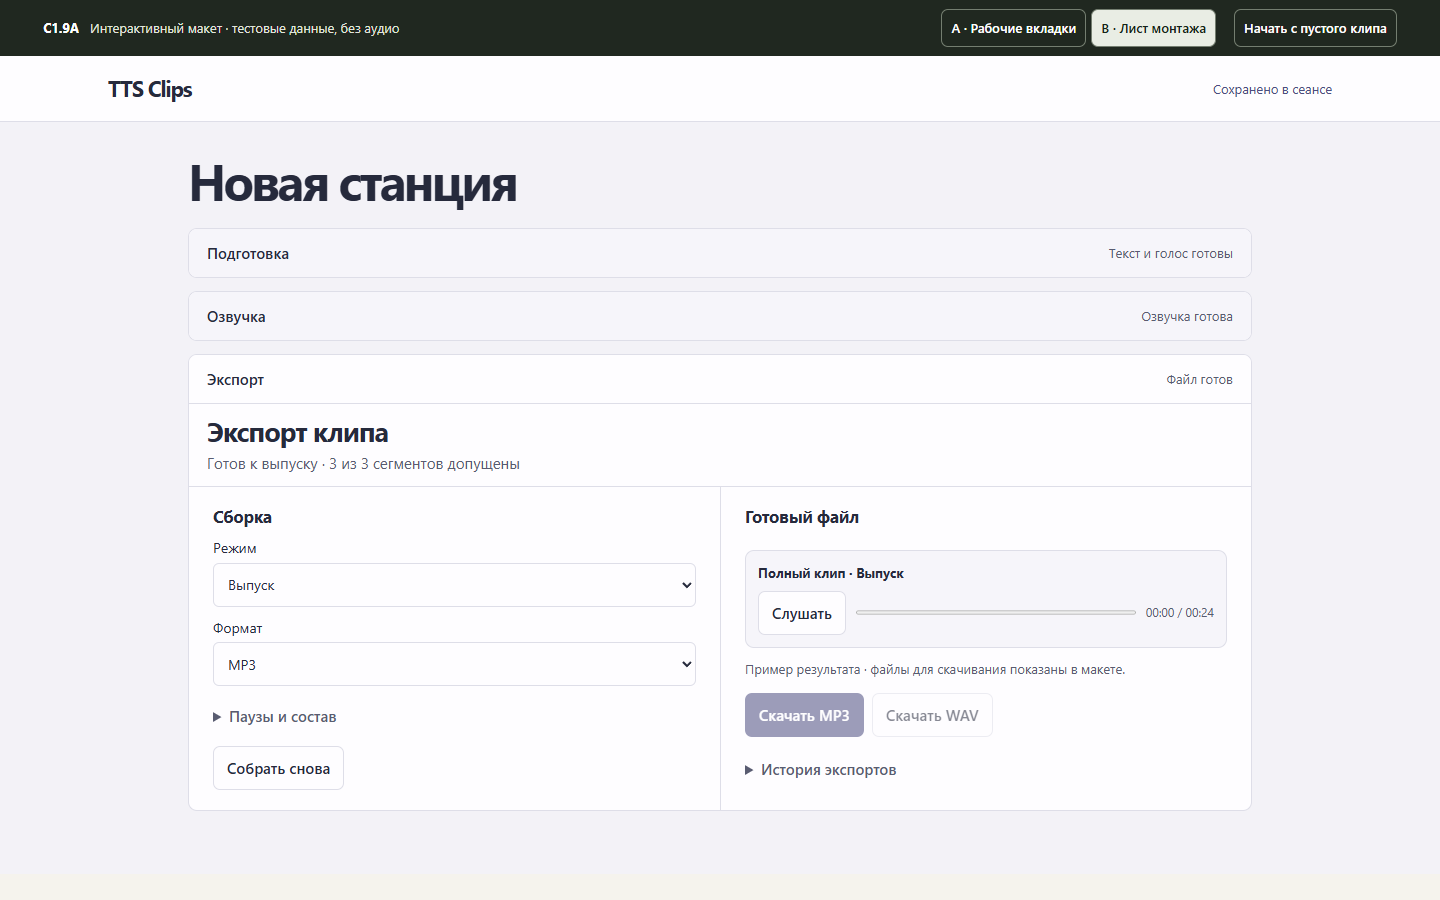
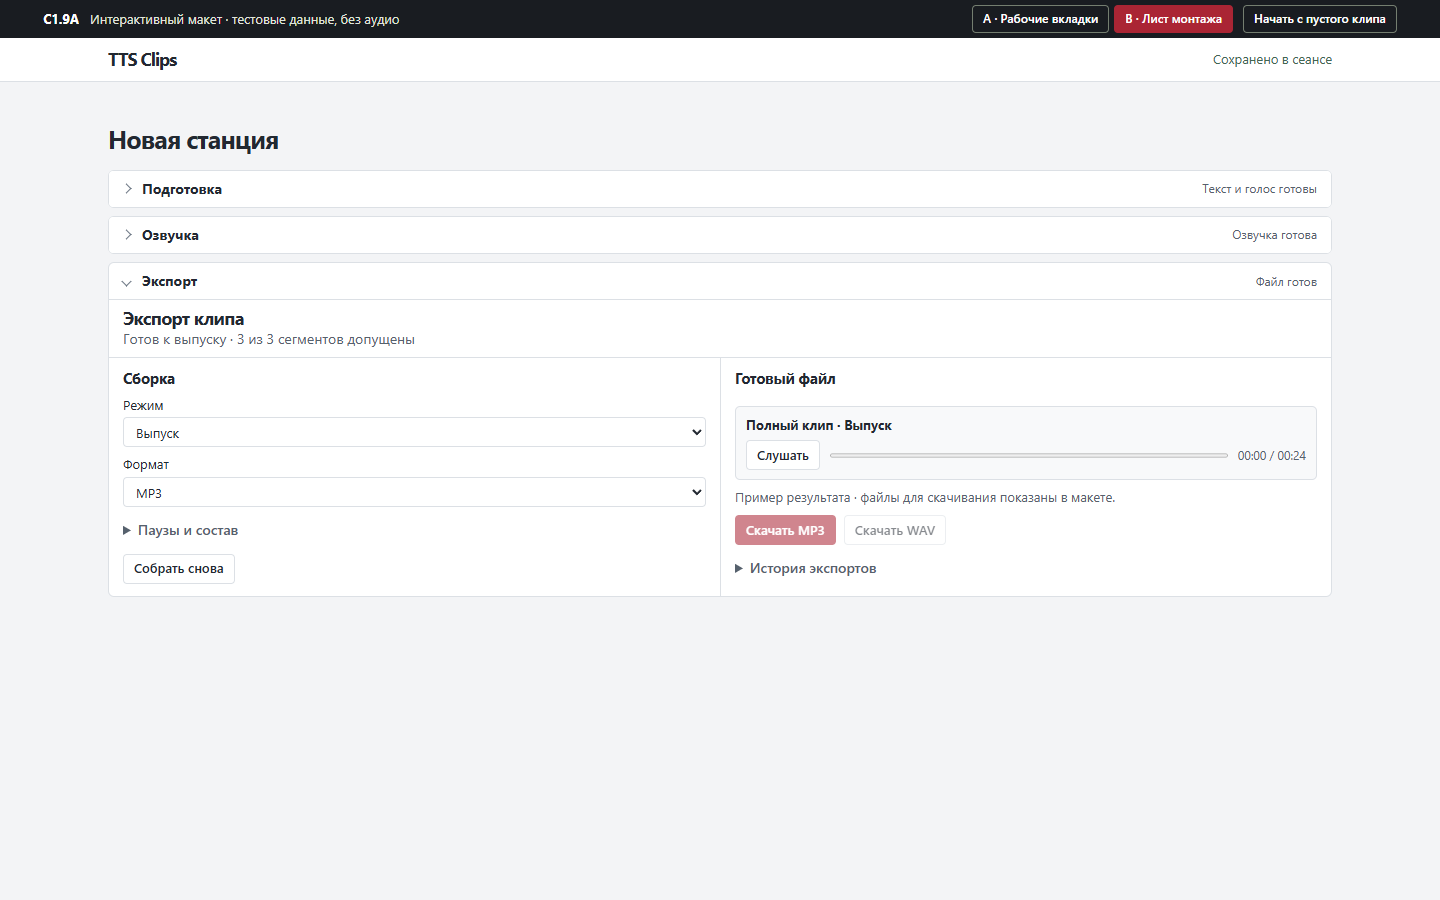
Refine concept B as a compact editorial workspace

diff --git a/docs/mockups/c1.9a/mockups.css b/docs/mockups/c1.9a/mockups.css
@@ -127,3 +127,69 @@ body[data-concept=b] .stage-head { padding: 12px 18px; }
   .take-line > .inline button { padding-inline:9px; }
 }
 @media(min-width: 701px) { .narrow { display:none; } }
+/* Compact editing sheet. All rules are scoped to concept B. */
+body[data-concept=b] {
+  --ink:#222831; --accent:#a92132; --tint:#faf0f1; --line:#dce0e5;
+  --paper:#fff; --soft:#f8f9fa; --muted:#56616d; background:#f3f4f6;
+  font:14px/1.45 "Segoe UI",Arial,sans-serif;
+}
+body[data-concept=b] {
+  & .review {background:#191c21;padding-block:5px;gap:10px}
+  & .review button {min-height:28px;font-size:12px;border-radius:4px}
+  & .review button[aria-pressed=true] {background:#aa2534;color:#fff;border-color:#aa2534}
+  & .top-inner {min-height:43px;padding-block:4px}
+  & .wordmark {font-size:18px}
+  & .workspace {max-width:1280px;padding-top:18px}
+  & .clip-header {margin-bottom:12px}
+  & .clip-name {font-size:25px;min-height:32px;letter-spacing:-.035em}
+  & h2 {font-size:18px}
+  & h3 {font-size:15px}
+  & button, & select, & input:not([type=checkbox]) {min-height:30px}
+  & button {font-size:13px;padding:4px 10px;border-radius:4px;font-weight:500}
+  & button.primary {color:#fff;background:var(--accent)}
+  & .inline-stage {margin-bottom:8px;border-radius:6px}
+  & .inline-stage-head {background:#fff;padding:8px 14px;min-height:36px;justify-content:flex-start;font-size:14px;font-weight:650}
+  & .inline-stage-head::before {content:"";width:6px;height:6px;border:solid #687380;border-width:0 1px 1px 0;transform:rotate(-45deg)}
+  & .inline-stage-head[aria-expanded=true]::before {transform:rotate(45deg)}
+  & .inline-stage-head span {margin-left:auto;font-size:12px}
+  & .stage-head, & .stage-foot {padding:8px 14px}
+  & .stage-head p {margin:0}
+  & .segment-list {padding:0 14px}
+  & .segment-list h3 {display:inline-block;margin:7px 12px 7px 0}
+  & .segment-list label {display:inline-block;margin:4px 0}
+  & .segment-row {padding:7px 10px;border-radius:0;align-items:center}
+  & .segment-row > span:last-child {display:flex;align-items:center;justify-content:space-between;gap:8px}
+  & .segment-row[aria-pressed=true] {background:#f8edef}
+  & .segment-caption {font-size:12px}
+  & .inspector {padding:10px 14px;margin:0 0 6px;background:#fcfcfd;gap:9px;border-left-width:2px}
+  & .inspector-top h3 {font-size:14px}
+  & .inspector-top button {color:#145ca8}
+  & .inspector blockquote, & .script {font:15px/1.55 "Segoe UI",Arial,sans-serif}
+  & .player {border-radius:5px;padding:9px 10px}
+  & .take {padding:5px 0}
+  & .field-head {margin-bottom:7px}
+  & .active-label {font-weight:500;padding:1px 5px;border-radius:3px;background:#eef1f4;color:#394454}
+  & .prep > div, & .export-grid > div {padding:12px 14px}
+  & .stack {align-content:start;gap:8px}
+  & label.input {gap:3px;font-size:13px}
+  & select, & input.field {padding:3px 8px;border-radius:4px}
+  & textarea {border-radius:4px;padding:8px 10px}
+  & summary {padding-block:5px}
+  & .hint:not(.warn) {background:#f1f7f3;border-color:#498264}
+}
+@media(min-width:900px) {
+  body[data-concept=b] .inspector {grid-template-columns:minmax(0,1.15fr) minmax(0,1fr);column-gap:24px}
+  body[data-concept=b] .inspector-top {grid-column:1/-1}
+  body[data-concept=b] .inspector > .player {grid-column:1;align-self:start}
+  body[data-concept=b] .inspector > div:last-child:not(.player) {grid-column:2;grid-row:2/span 2;border-left:1px solid var(--line);padding-left:18px}
+}
+@media(max-width:700px) {
+  body[data-concept=b] .workspace {padding:12px 9px 24px}
+  body[data-concept=b] .review button {min-height:32px}
+  body[data-concept=b] .segment-row > span:last-child {display:block}
+  body[data-concept=b] .inline-stage-head {min-height:40px}
+  body[data-concept=b] .inspector {padding:9px}
+  body[data-concept=b] .inspector button {min-height:36px}
+}
+body[data-concept=b] { min-height:100vh }
+body[data-concept=b] .save { color:#426552 }

diff --git a/docs/mockups/c1.9a/mockups.js b/docs/mockups/c1.9a/mockups.js
@@ -228,8 +228,8 @@ function go(stage, focus = true) {
 
 function fromHash() {
   const [letter, scene] = location.hash.slice(1).split("/");
-  concept = letter === "b" ? "b" : "a";
-  reset(["work", "prep", "export"].includes(scene) ? scene : "empty");
+  concept = letter === "a" ? "a" : "b";
+  reset(!letter ? "work" : ["work", "prep", "export"].includes(scene) ? scene : "empty");
   render();
 }
 window.addEventListener("hashchange", fromHash);
